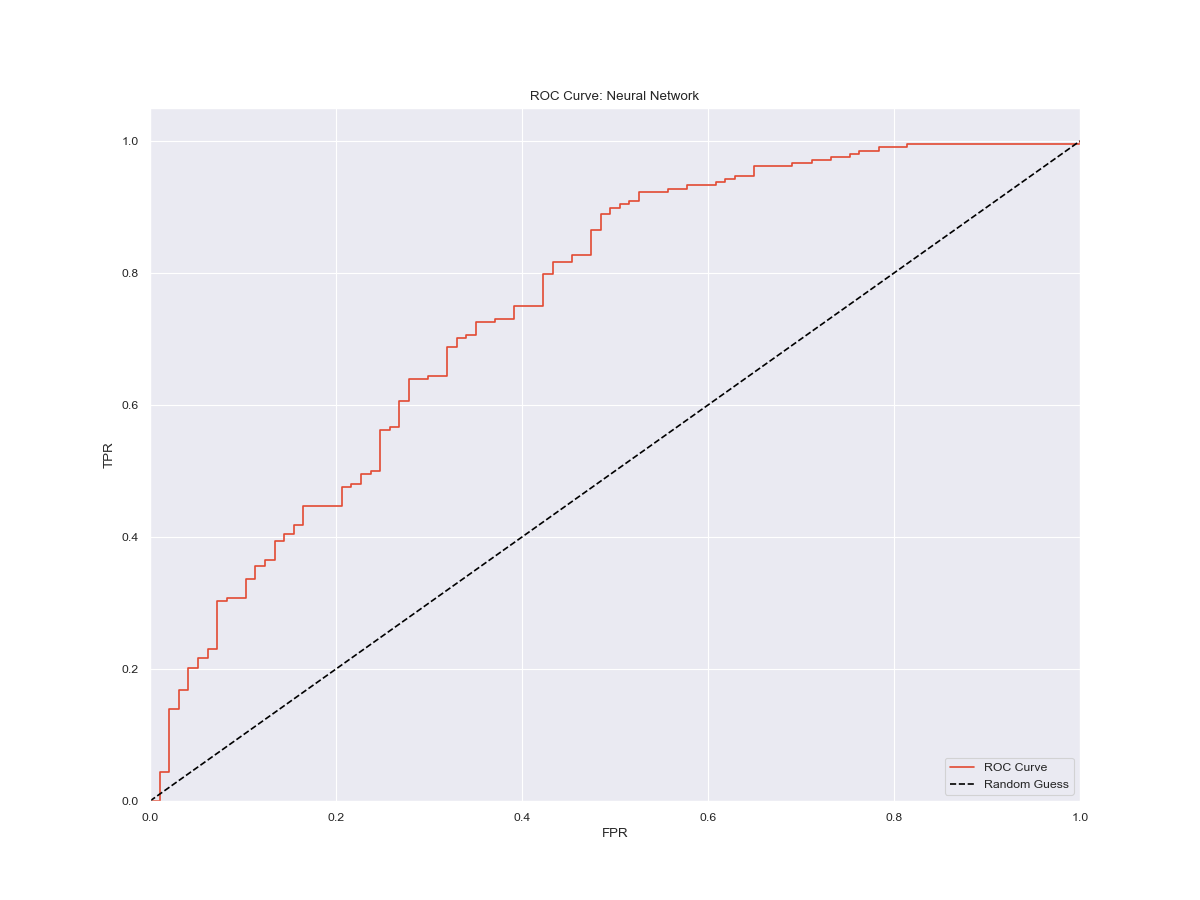
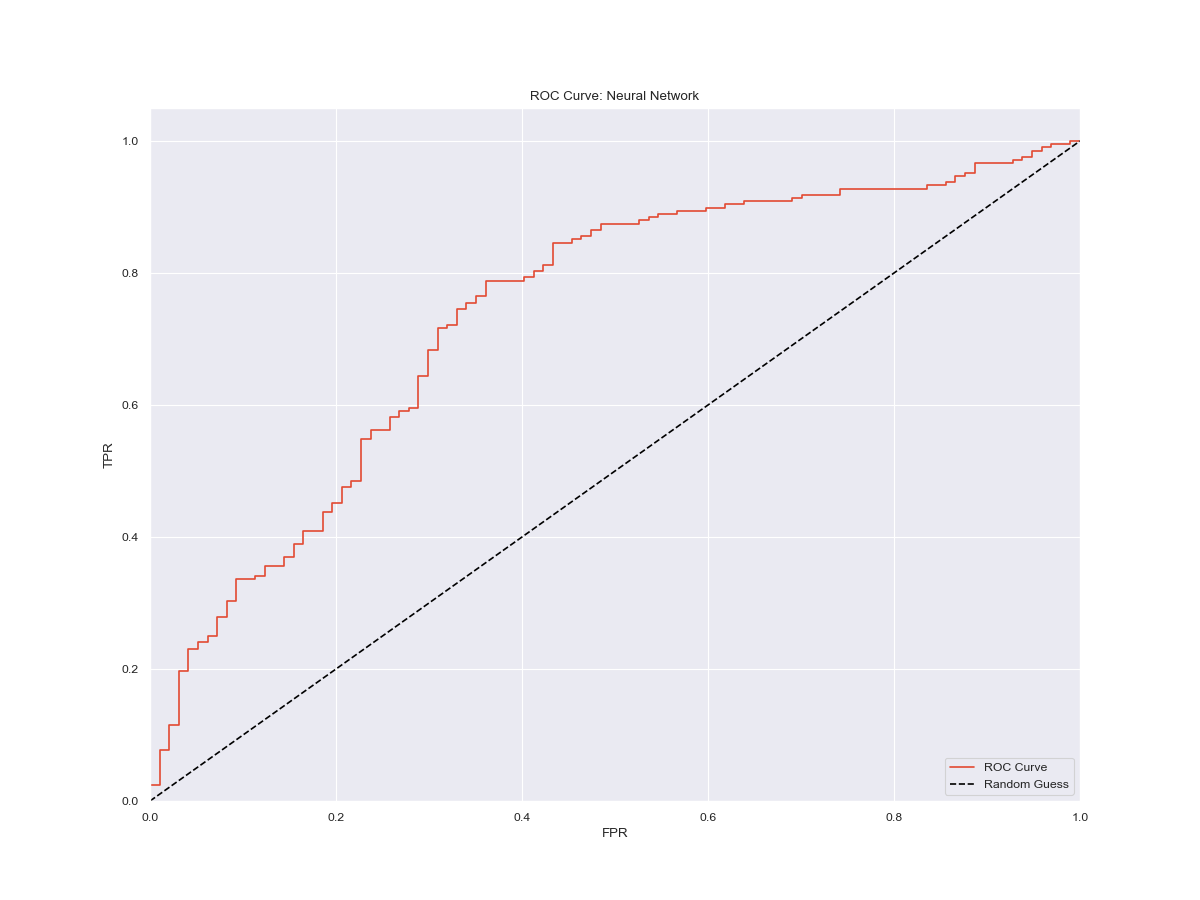
small change to pytorch impl - added cuda / rocm support

diff --git a/scripts/research/phase_04/research_07.py b/scripts/research/phase_04/research_07.py
@@ -33,6 +33,12 @@ from cowboysmall.plots import plt, sns
 
 
 
+# %% 1 -
+device = torch.device("cuda:0" if torch.cuda.is_available() else "cpu")
+print(device)
+
+
+
 # %% 2 -
 INDICES  = ['NSEI', 'DJI', 'IXIC', 'HSI', 'N225', 'GDAXI', 'VIX']
 COLUMNS  = [f"{index}_DAILY_RETURNS" for index in INDICES]
@@ -50,21 +56,26 @@ class MLP(nn.Module):
     def __init__(self, input_dim, output_dim):
         super(MLP, self).__init__()
 
-        self.input  = nn.Linear(input_dim, 16)
+
+        self.input  = nn.Linear(input_dim, 64)
         self.act_in = nn.ReLU()
 
-        self.hidden1 = nn.Linear(16, 16)
+        self.hidden1 = nn.Linear(64, 64)
         self.act1 = nn.ReLU()
-        self.hidden2 = nn.Linear(16, 16)
+        self.hidden2 = nn.Linear(64, 64)
         self.act2 = nn.ReLU()
-        self.hidden3 = nn.Linear(16, 16)
+        self.hidden3 = nn.Linear(64, 64)
         self.act3 = nn.ReLU()
-        self.hidden4 = nn.Linear(16, 16)
+        self.hidden4 = nn.Linear(64, 64)
         self.act4 = nn.ReLU()
-        self.hidden5 = nn.Linear(16, 16)
+        self.hidden5 = nn.Linear(64, 64)
         self.act5 = nn.ReLU()
+        self.hidden6 = nn.Linear(64, 64)
+        self.act6 = nn.ReLU()
+        self.hidden7 = nn.Linear(64, 64)
+        self.act7 = nn.ReLU()
 
-        self.output  = nn.Linear(16, output_dim)
+        self.output  = nn.Linear(64, output_dim)
         self.act_out = nn.Sigmoid()
 
     def forward(self, x):
@@ -75,6 +86,8 @@ class MLP(nn.Module):
         x = self.act3(self.hidden3(x))
         x = self.act4(self.hidden4(x))
         x = self.act5(self.hidden5(x))
+        x = self.act6(self.hidden6(x))
+        x = self.act7(self.hidden7(x))
 
         return self.act_out(self.output(x))
 
@@ -116,7 +129,6 @@ y = data['NSEI_OPEN_DIR'].values[:, None]
 
 
 
-
 # %% 4 -
 X_train, X_test, y_train, y_test = train_test_split(X, y, test_size = 0.2, random_state = 1337)
 
@@ -126,6 +138,11 @@ X_train = torch.from_numpy(X_train).type(torch.Tensor)
 X_test  = torch.from_numpy(X_test).type(torch.Tensor)
 y_train = torch.from_numpy(y_train).type(torch.Tensor)
 
+if torch.cuda.is_available():
+    X_train = X_train.cuda()
+    X_test  = X_test.cuda()
+    y_train = y_train.cuda()
+
 
 
 # %% 1 -
@@ -133,8 +150,10 @@ input_dim  = X.shape[1]
 output_dim = 1
 
 model     = MLP(input_dim, output_dim)
+model     = model.to(device)
+
 criterion = nn.MSELoss()
-optimiser = torch.optim.Adam(model.parameters(), lr = 0.01)
+optimiser = torch.optim.Adam(model.parameters(), lr = 0.001)
 
 
 
@@ -198,11 +217,11 @@ y_pred_class = np.where(y_pred <= optimal_threshold,  0, 1)
 print(classification_report(y_test, y_pred_class))
 #               precision    recall  f1-score   support
 # 
-#          0.0       0.66      0.56      0.60        97
-#          1.0       0.81      0.87      0.84       208
+#          0.0       0.68      0.54      0.60        97
+#          1.0       0.80      0.88      0.84       208
 # 
 #     accuracy                           0.77       305
-#    macro avg       0.73      0.71      0.72       305
+#    macro avg       0.74      0.71      0.72       305
 # weighted avg       0.76      0.77      0.76       305
 
 
@@ -210,10 +229,10 @@ print(classification_report(y_test, y_pred_class))
 # %% 11 - 
 table = pd.crosstab(y_pred_class[:, 0], y_test[:, 0])
 print(table)
-# NSEI_OPEN_DIR  0.0  1.0
-# row_0                  
-# 0               54   28
-# 1               43  180
+# col_0  0.0  1.0
+# row_0          
+# 0       52   25
+# 1       45  183
 
 
 
